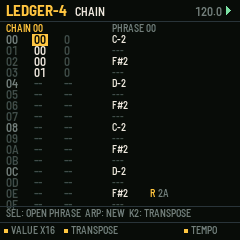
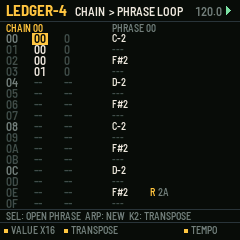
UI pass: held-button hints and clearer screens

diff --git a/app/core/kit.c b/app/core/kit.c
@@ -262,6 +262,30 @@ static void kit_knobs(const char *a, const char *b, const char *c, const char *d
     cv_blit(0, 222);
 }
 
+/* while one button is held (a fifth of a second, before its card), the knob band says what it does now: the map
+ * of a held layer on the screen, so no combination has to be remembered. 1 when drawn (the app skips its knobs) */
+static int kit_hint(const char *const *hints, uint16_t accent)
+{
+    uint32_t i, now = plat_ms();
+    for (i = 0; i < NB; i++)
+        if (hints[i] && HELD(i) && now - K.bt0[i] >= 200u && K.card == NB && (K.btn & ~(1u << i)) == 0u) {
+            cv_begin(240, 18, accent);
+            cv_text(4, 2, &FONT_T, BTN_NM[i], K_BG);
+            cv_text(8 + text_w(&FONT_T, BTN_NM[i]), 2, &FONT_T, hints[i], K_BG);
+            cv_blit(0, 222);
+            return 1;
+        }
+    return 0;
+}
+static int kit_hint_due(const char *const *hints)      /* a frame should redraw for the hint to appear */
+{
+    uint32_t i, now = plat_ms();
+    for (i = 0; i < NB; i++)
+        if (hints[i] && HELD(i) && now - K.bt0[i] >= 200u && now - K.bt0[i] < 260u)
+            return 1;
+    return 0;
+}
+
 /* a value 0..max as a bar w wide (meters, levels) */
 static void bar(int32_t x, int32_t y, int32_t w, int32_t h, int32_t v, int32_t max, uint16_t c)
 {

diff --git a/app/ui.c b/app/ui.c
@@ -55,6 +55,11 @@ static const char *const CARD_TEXT[NB] = {
 #endif
 };
 
+static const char *const HINTS[NB] = {
+    [B_SEL] = "LFO COPY  PRESETS TRANSPOSE  TAP: OPEN",
+    [B_FX] = "CLEARS THE CELL", [B_ARP] = "NEW CHAIN / PHRASE / NOTE OFF", [B_LFO] = "PASTE  (SEL+LFO COPY)",
+};
+
 static void dirty(void) { U.dirty = 1; }
 
 /* ---- the next unused chain or phrase ---- */
@@ -589,6 +594,11 @@ static void input(void)
             } else {
                 U.prow = (uint8_t)clamp(U.prow + r, 0, NROW - 1);
                 U.pcol = (uint8_t)clamp(U.pcol + c, 0, NPC - 1);
+                if (r && !T.playing && cur_row()->note && cur_row()->note != NOTE_OFF) {   /* scrolling plays */
+                    const patch_t *pa = &P.ins[(cur_row()->ins != EMPTY ? cur_row()->ins : U.ins) % NINS];
+                    live_note(6, pa, cur_row()->note, cur_row()->vel != EMPTY ? cur_row()->vel : 100, 1);
+                    live_note(6, pa, cur_row()->note, 0, 0);
+                }
             }
         }
         if (K.enc[EN_PRESET] && HELD(B_SEL) && U.page == PG_PHRASE) {   /* transpose the phrase */

diff --git a/app/draw.c b/app/draw.c
@@ -239,7 +239,13 @@ static void draw_footline(void)                         /* the explanation line 
 
 static void draw(void)
 {
-    kit_header("LEDGER-4", PG_NM[U.page], ACCENT, T.playing, U.edit && U.page == PG_PHRASE, T.bpm10);
+    {
+        char pg[32];
+        s_cpy(pg, PG_NM[U.page]);
+        if (T.playing && (U.page != (E.mode == PM_SONG ? PG_SONG : E.mode == PM_CHAIN ? PG_CHAIN : PG_PHRASE)))
+            s_cat(pg, E.mode == PM_SONG ? "  > SONG" : E.mode == PM_CHAIN ? "  > CHAIN LOOP" : "  > PHRASE LOOP");
+        kit_header("LEDGER-4", pg, ACCENT, T.playing, U.edit && U.page == PG_PHRASE, T.bpm10);
+    }
     cv_begin(240, 200, K_BG);
     if (K.card < NB && CARD_TEXT[K.card]) {
         kit_card(K.card, CARD_TEXT[K.card], 200, ACCENT);
@@ -262,6 +268,7 @@ static void draw(void)
         kit_knobs("VALUE x16", "", "", "TEMPO", ACCENT);
     else
         kit_knobs("VALUE", "", "", "", ACCENT);
+    kit_hint(HINTS, ACCENT);
 }
 
 static void lights(void)

diff --git a/app/app.c b/app/app.c
@@ -76,6 +76,8 @@ void app_frame(void)
     for (i = 0; i < 16u; i++)
         if (heard[i])
             heard[i]--;
+    if (kit_hint_due(HINTS))
+        K.redraw = 1;
     lights();
     if (K.redraw) {
         K.redraw = 0;
